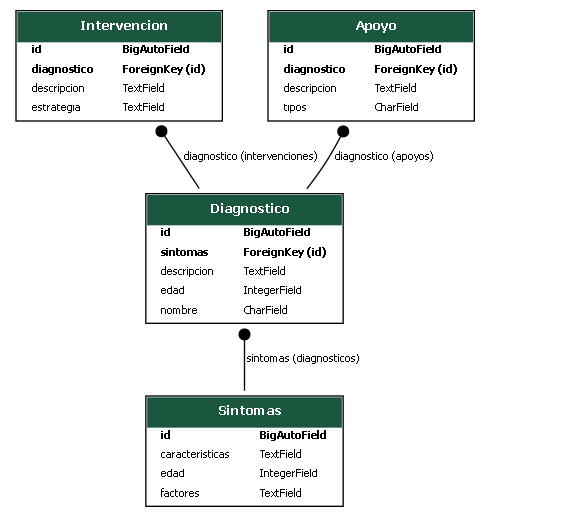
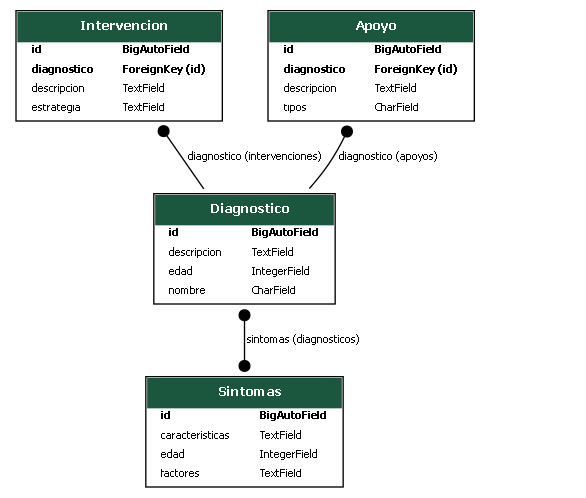
Diagrma muchos a muchos

diff --git a/consultas/migrations/0002_remove_diagnostico_sintomas_diagnostico_sintomas.py b/consultas/migrations/0002_remove_diagnostico_sintomas_diagnostico_sintomas.py
@@ -1,0 +1,22 @@
+# Generated by Django 5.2 on 2025-05-27 23:57
+
+from django.db import migrations, models
+
+
+class Migration(migrations.Migration):
+
+    dependencies = [
+        ('consultas', '0001_initial'),
+    ]
+
+    operations = [
+        migrations.RemoveField(
+            model_name='diagnostico',
+            name='sintomas',
+        ),
+        migrations.AddField(
+            model_name='diagnostico',
+            name='sintomas',
+            field=models.ManyToManyField(related_name='diagnosticos', to='consultas.sintomas'),
+        ),
+    ]

diff --git a/consultas/models.py b/consultas/models.py
@@ -9,8 +9,8 @@ class Diagnostico(models.Model):
     nombre = models.CharField(max_length=100)
     descripcion = models.TextField()
     edad = models.IntegerField()
-    sintomas = models.ForeignKey(Sintomas, on_delete=models.CASCADE, related_name='diagnosticos')
-
+    #sintomas = models.ForeignKey(Sintomas, on_delete=models.CASCADE, related_name='diagnosticos')
+    sintomas = models.ManyToManyField(Sintomas, related_name='diagnosticos')
 class Intervencion(models.Model):
     descripcion = models.TextField()
     estrategia = models.TextField()
